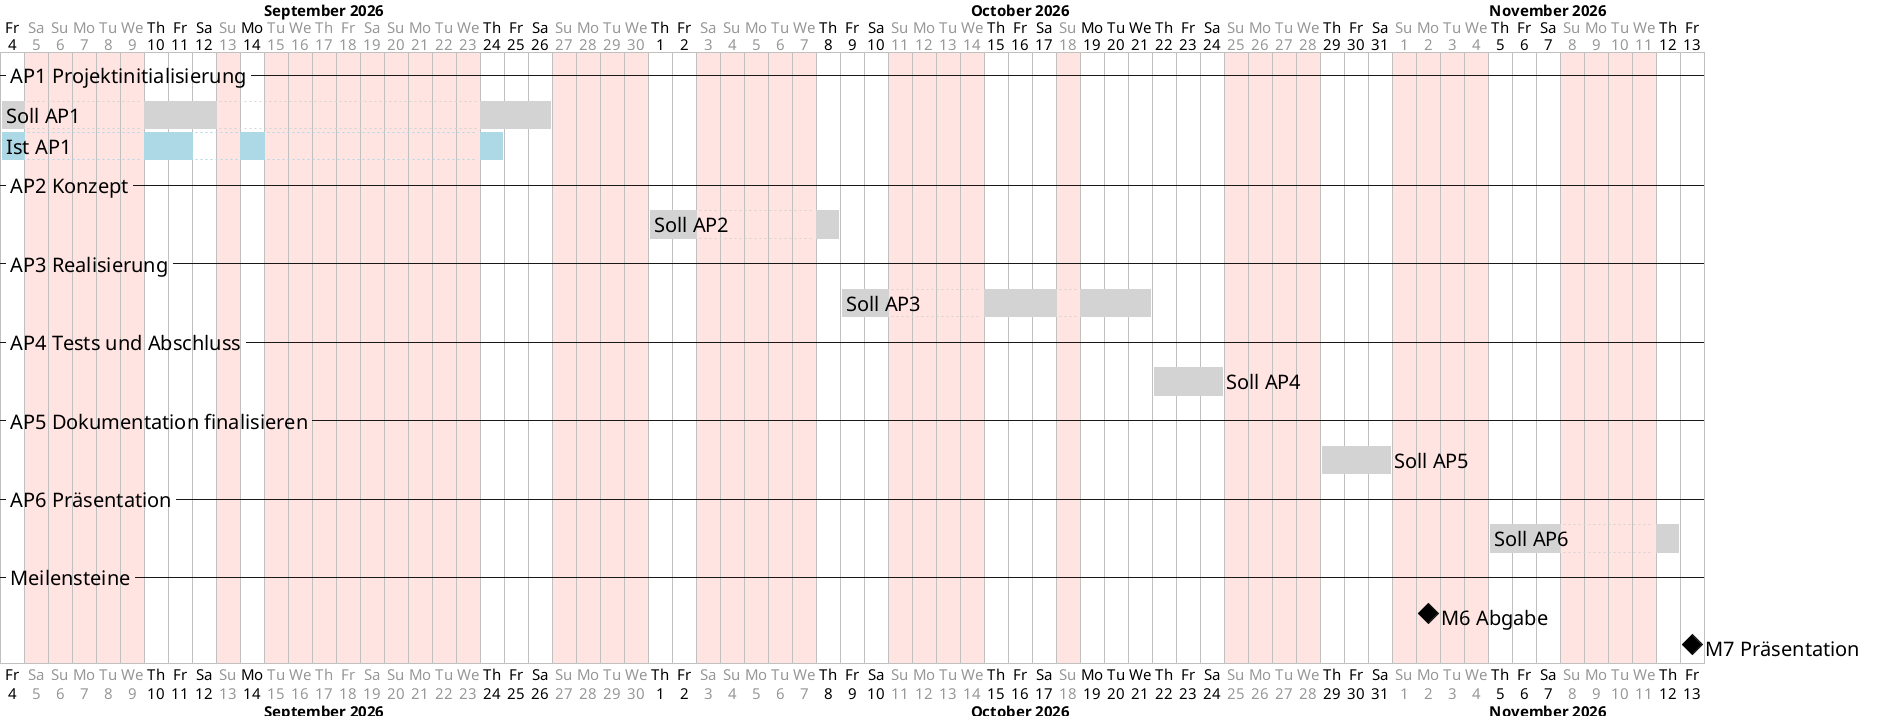
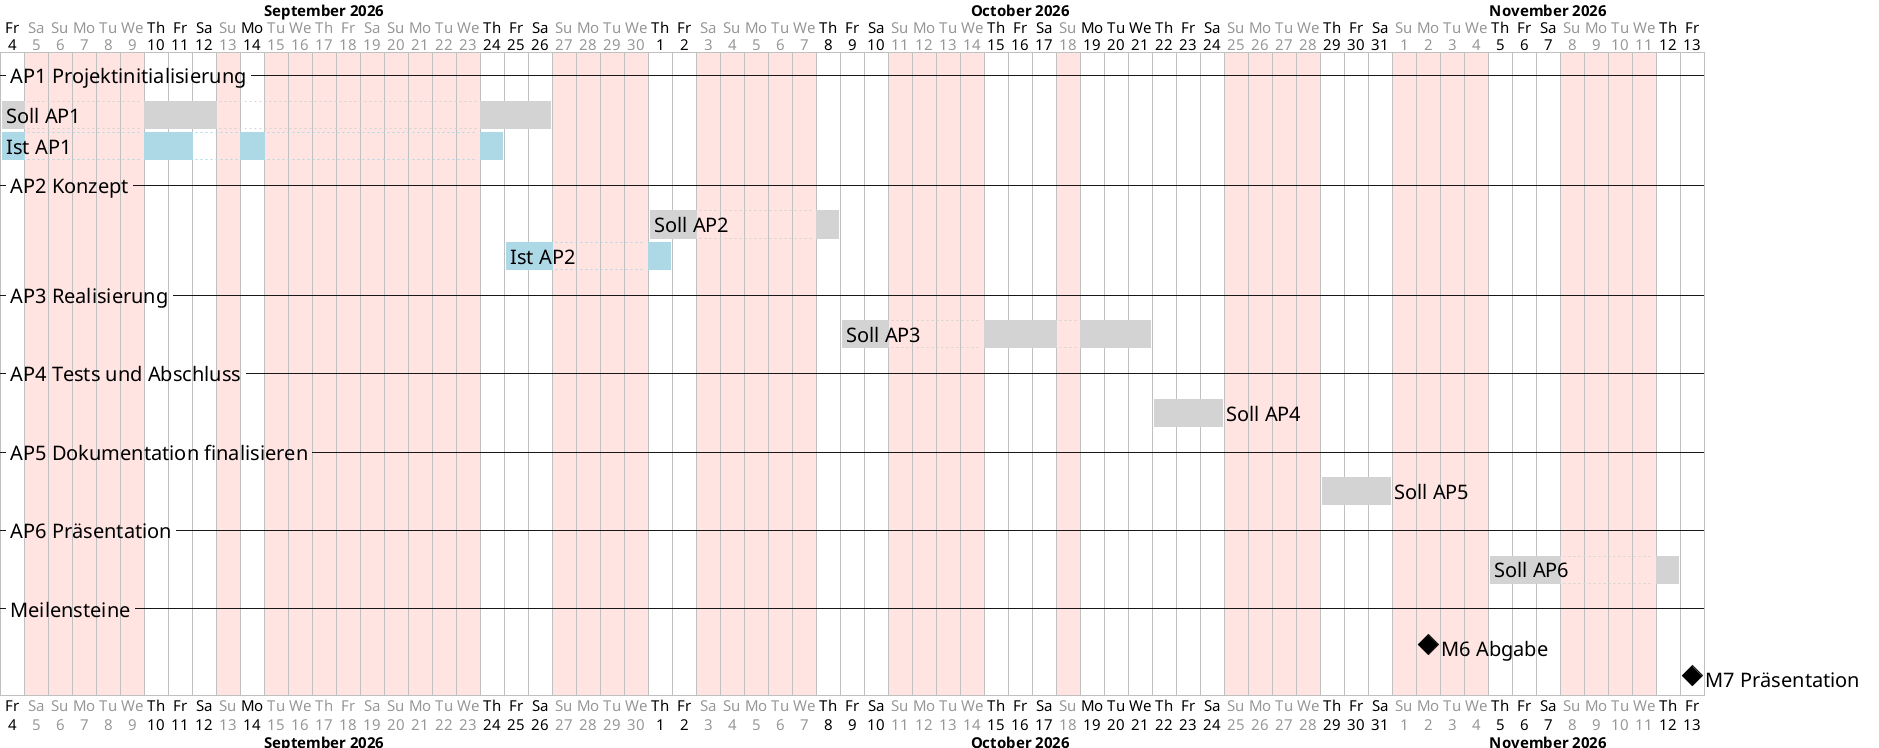
Fachliche Regeln, MIT-Lizenz und Abschluss des Konzepts mit Konsistenzprüfung

diff --git a/README.md b/README.md
@@ -2,11 +2,11 @@
 
 Diplomarbeit von Adrian Aeschlimann an der TEKO Schweizerische Fachschule, Studiengang Software Engineering HF, Durchführung Herbst 2026.
 
-Der definitive Titel steht noch nicht fest.
+Der Titel der Arbeit ist *IDE-Erweiterung zentraler Entwicklungsprozesse*.
 
 ## Thema
 
-TODO
+Gebaut wird BE-LabelExtension, eine Extension für Visual Studio, mit der sich Labels für Dynamics 365 direkt in der IDE suchen, anlegen, bearbeiten und übersetzen lassen. Sie löst das eigenständige Tool BE-LabelEditor der BE-terna AG ab, für das bei jedem Lokalisierungsvorgang die IDE verlassen werden muss.
 
 ## Termine
 
@@ -45,4 +45,4 @@ Dieses Repository ist öffentlich. Es enthält die eigene Arbeit und keine Besta
 
 ## Lizenz
 
-TODO
+MIT, siehe [LICENSE](LICENSE).
